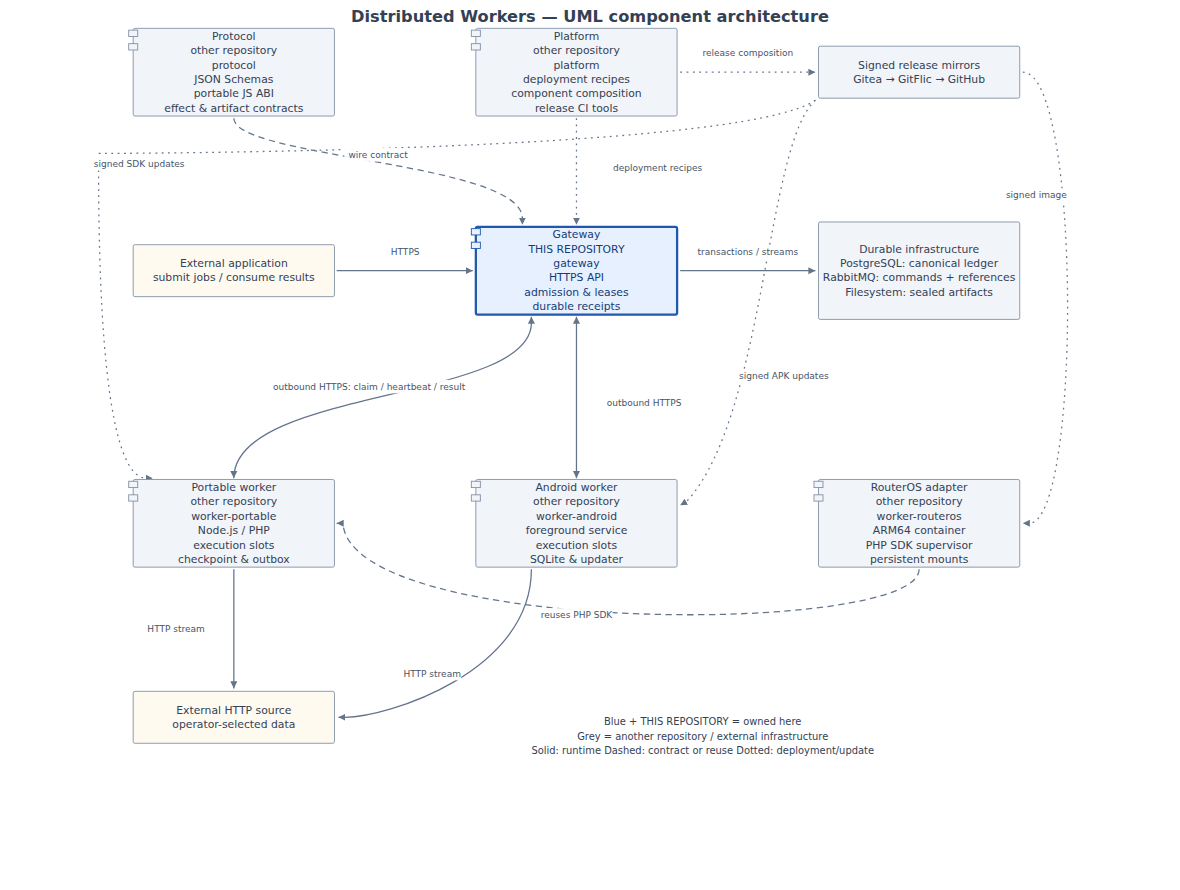
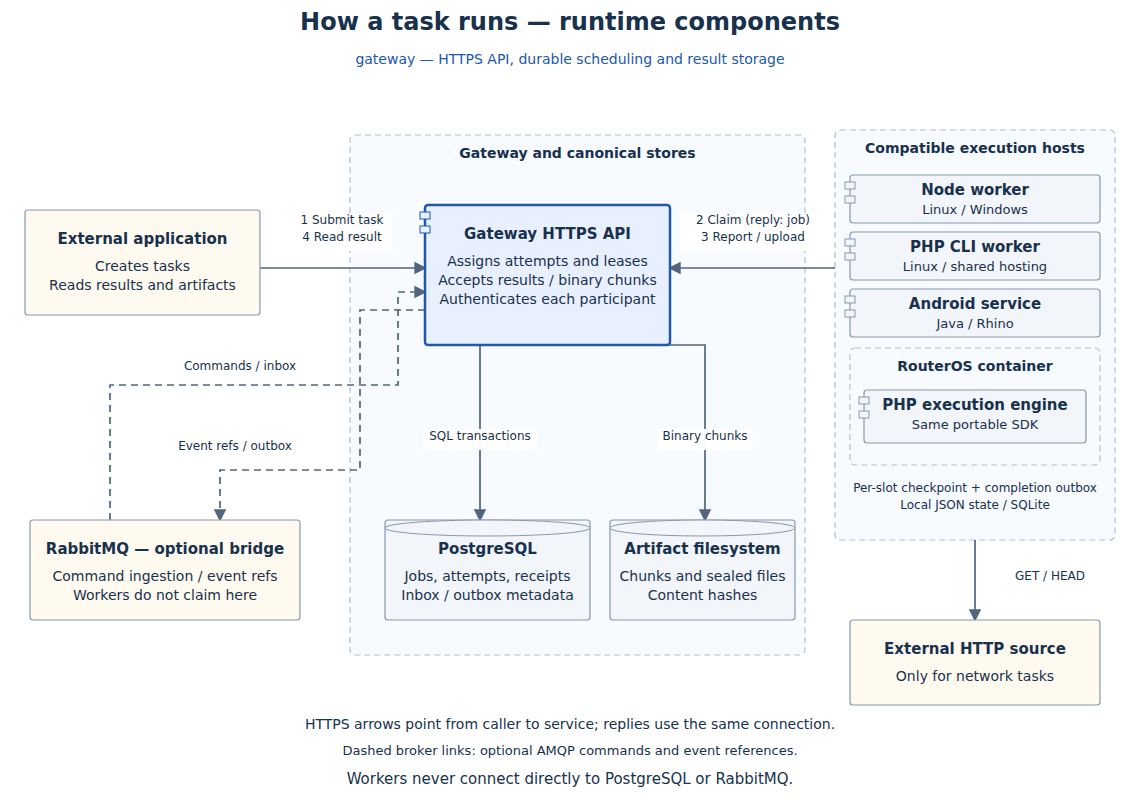
Separate runtime task flow from UML repository dependencies
Show HTTPS pull, PostgreSQL scheduling, optional AMQP and binary storage separately from source/release dependencies. Represent RouterOS as a container with a local PHP engine, identify non-runtime packages, and validate routes and ownership.

diff --git a/README.md b/README.md
@@ -7,17 +7,30 @@ never connects to the existing Agent Factory queues or its workflow database.
 RabbitMQ carries durable commands and lifecycle/result-reference events.
 
 <!-- fleet-architecture:start -->
-## Architecture and repository boundary
+## Architecture
 
-![Shared UML component architecture; gateway is highlighted](docs/architecture.png)
+### How a task runs
 
-All six repositories show the same system. **Blue and “THIS REPOSITORY” identify the component owned here**; grey boxes show sibling repositories or external infrastructure. Solid arrows carry runtime traffic, dashed arrows show contracts or reuse, and dotted arrows show deployment or updates. The protocol applies to the gateway and both execution SDKs; deployment arrows show the principal composition entry points.
+![Runtime task flow, API callers and durable stores](docs/architecture.png)
+
+1. An external application submits a task to the gateway API.
+2. A compatible worker claims it; the API assigns a fenced attempt in PostgreSQL and returns the task. The worker renews its lease while running.
+3. The worker uploads binary output and submits its result. Gateway acknowledgements confirm persisted state.
+4. The application reads the canonical result and downloads referenced artifacts.
+
+Workers initiate HTTPS connections. PostgreSQL schedules claims and stores canonical execution state. RabbitMQ is an optional command/event bridge; workers do not pull their tasks from it. The four adapter boxes show implementation types, not a machine count.
+
+### Where this repository fits
+
+![UML package dependencies; this repository is blue](docs/repositories.png)
+
+The **blue package labelled THIS REPOSITORY** is owned here. Dashed arrows point from a package to the contract, SDK or release bundle it uses; they do not represent network calls. `protocol` and `platform` are source/tooling packages, not running services. RouterOS packages the PHP SDK inside its own container rather than calling a separate PHP service.
 
 This repository owns the HTTPS control API, admission and leases, canonical result receipts, artifact/effect endpoints, and the transactional broker bridge. It stores execution state; computation itself runs on workers.
 
 Implementation: [HTTP API](http.go), [leases and claims](jobs.go), [artifact storage](artifact_store.go), [broker bridge](bridge.go).
 
-[SVG source](docs/architecture.svg) · [Editable DOT source](docs/architecture.dot). The common model and Python-only SVG renderer live in [platform](https://gitflic.ru/project/distributed-workers/platform). From its checkout, `python3 -B tools/render-architecture.py --workspace ../.. --png` regenerates every ownership view in a workspace containing `repos/<component>`. PNG previews work on forges that serve SVG as text. SVG generation uses Python alone; PNG rendering uses a local Chromium browser. No diagram service or production configuration is needed.
+Editable sources: [runtime SVG](docs/architecture.svg), [runtime DOT](docs/architecture.dot), [repository SVG](docs/repositories.svg), [repository DOT](docs/repositories.dot). Both view families come from the shared model in [platform](https://gitflic.ru/project/distributed-workers/platform); each repository changes only the ownership highlight. PNG previews display on all three forges. Regenerate with `python3 -B tools/render-architecture.py --workspace ../.. --png` from the platform checkout. SVG needs Python alone; PNG needs local Chromium and Pillow.
 <!-- fleet-architecture:end -->
 
 ## Build and run
